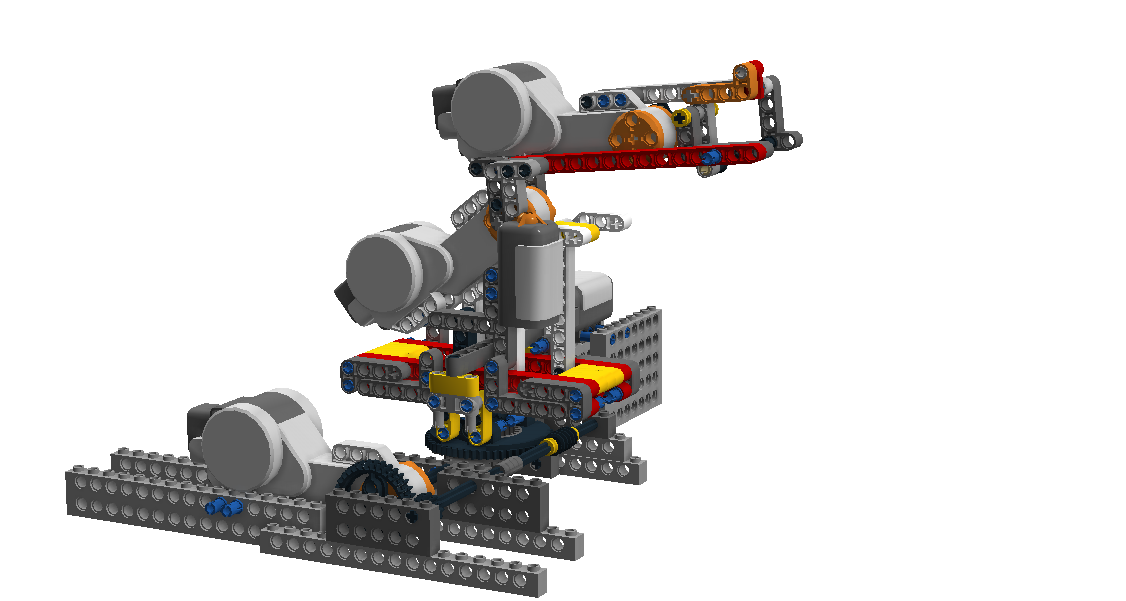
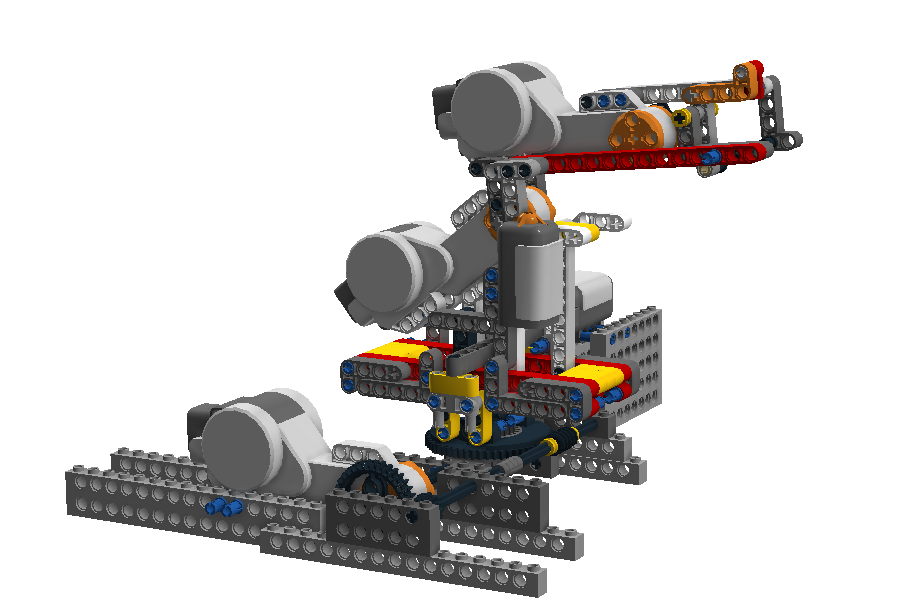
frontpage and synopsis

diff --git a/report/tex/titlepage.tex b/report/tex/titlepage.tex
@@ -9,7 +9,7 @@
 \phantomsection
 \pdfbookmark[0]{Titlepage}{titlepage}
 \thispagestyle{empty}
-\begin{titlepage}
+%\begin{titlepage}
 \begin{nopagebreak}
 {\samepage 
 \begin{tabular}{r}
@@ -31,7 +31,7 @@
 
 \item { Title:} 
 
-LEGO Tower for Automatic Shooting of Round Objects with Help of the LEGO NXT Interfacing with the Microsoft Kinect \\
+LEGO Missile Launcher \\
   
 \item { Theme:} 
 
@@ -78,7 +78,7 @@ Simon Jensen\\
      }}
    \end{tabular}}
 \end{tabular}}
-\\ \\ \\ \\ 
+\\ \\ \\ \\ \\ \\ \\
 \noindent{\footnotesize{\textit{Rapportens indhold er frit tilgængeligt, men offentliggørelse (med kildeangivelse) må kun ske efter aftale med forfatterne.}}}
 \end{nopagebreak}
-\end{titlepage}
+%\end{titlepage}

diff --git a/report/tex/synopsis.tex b/report/tex/synopsis.tex
@@ -1,0 +1,3 @@
+This report documents the construction of a LEGO tower, that, with the help of a LEGO NXT and a Microsoft Kinect, can target a round object, aim and hit it. The project uses the nxtOSEK operating system on the NXT, as well as OpenCV and Freenect for the Kinect to complete the task of shooting the object.
+
+The report describes the design and implementation of the project, it also contains tests of the final product, as well as a reflection of the project and ideas for future work.

diff --git a/report/tex/frontpage.tex b/report/tex/frontpage.tex
@@ -13,12 +13,12 @@
 \rule{13cm}{3mm} \\ \vspace{1.5cm}
 \vspace{1cm}
 
-\includegraphics[width=1.0\textwidth]{img/frontpage} 
+\includegraphics[width=1.0\textwidth]{img/design_turret4} 
 
 \vspace{1.5cm} 
-\textsc{\Large P5 Projekt \\
-Gruppe SW501E12 \\
-Institut for Datalogi\\
-Aalborg Universitet\\
-Den 20 Dec. 2012\\}
+\textsc{\Large P5 Project \\
+Group SW501 \\
+Department of Computer Science\\
+Aalborg University\\
+Dec. 20th 2012\\}
 \end{flushright}

diff --git a/report/master.tex b/report/master.tex
@@ -3,7 +3,13 @@
 \begin{document}
 \input{tex/acronyms}
 
-%\input{tex/preface} 
+\input{tex/frontpage}
+\cleardoublepage
+
+\input{tex/titlepage}
+\cleardoublepage
+
+\input{tex/preface} 
 
 \tableofcontents
 
